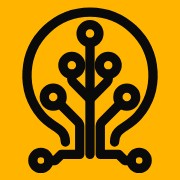
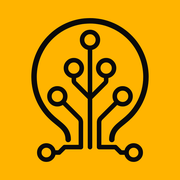
Add files via upload

diff --git a/index.html b/index.html
@@ -16,15 +16,15 @@
   <meta property="og:image" content="https://waiacan.com/images/waiacan-og-image.png">
   <meta name="twitter:card" content="summary_large_image">
 
-  <link rel="icon" href="favicon.ico" sizes="48x48">
-  <link rel="icon" href="favicon.svg" type="image/svg+xml">
-  <link rel="apple-touch-icon" href="apple-touch-icon.png">
+  <link rel="icon" href="favicon.ico?v=2" sizes="48x48">
+  <link rel="icon" href="favicon.svg?v=2" type="image/svg+xml">
+  <link rel="apple-touch-icon" href="apple-touch-icon.png?v=2">
   <link rel="manifest" href="site.webmanifest">
 
   <link rel="preconnect" href="https://fonts.googleapis.com">
   <link rel="preconnect" href="https://fonts.gstatic.com" crossorigin>
   <link rel="stylesheet" href="https://fonts.googleapis.com/css2?family=Inter:wght@400;500;600&family=Space+Grotesk:wght@500;600;700&display=swap">
-  <link rel="stylesheet" href="css/styles.css?v=2">
+  <link rel="stylesheet" href="css/styles.css?v=4">
 
   <script type="application/ld+json">
   {
@@ -64,7 +64,7 @@
   <header class="site-header">
     <div class="container header-inner">
       <a href="./" class="brand" aria-label="WAIACAN home">
-        <img src="images/logo/waiacan-wordmark-full-color.svg" alt="WAIACAN" width="835" height="133">
+        <img src="images/logo/waiacan-wordmark-header.svg?v=2" alt="WAIACAN" width="900" height="206">
       </a>
       <button class="nav-toggle" aria-expanded="false" aria-controls="site-nav" aria-label="Open menu">
         <span></span><span></span>
@@ -85,7 +85,8 @@
       <div class="container hero-grid">
         <div class="hero-content">
           <p class="eyebrow">Business Innovation Powered by AI</p>
-          <h1>Discover What You Can <span class="text-accent">Achieve.</span></h1>
+          <!-- "Achieve" is the real heading text; main.js turns it into a vertical word rotator. -->
+          <h1>Discover What You Can <br class="br-mobile"><span class="text-accent rotator" data-words="Achieve,Build,Automate,Create,Optimize">Achieve</span><span class="text-accent">.</span></h1>
           <p class="hero-lead">Practical AI, automation, and business innovation solutions.</p>
           <p class="hero-description">We help businesses solve complex challenges, eliminate inefficiencies, and unlock new opportunities through artificial intelligence, data, and technology. From immediate problem-solving to long-term process optimization, we turn business challenges into practical, scalable solutions.</p>
           <div class="hero-actions">
@@ -331,6 +332,6 @@
     </div>
   </footer>
 
-  <script src="js/main.js?v=2" defer></script>
+  <script src="js/main.js?v=3" defer></script>
 </body>
 </html>

diff --git a/js/main.js b/js/main.js
@@ -34,6 +34,58 @@
     onScroll();
   }
 
+  // Hero word rotator: slides the accent word up through data-words, looping back to the first.
+  // The original word stays as screen-reader text so the heading still reads "…Can Achieve."
+  // Skipped entirely for reduced-motion users, who just see the static first word.
+  var rotator = document.querySelector('.rotator[data-words]');
+  var reduceMotion = window.matchMedia && window.matchMedia('(prefers-reduced-motion: reduce)').matches;
+  if (rotator && !reduceMotion) {
+    var words = rotator.getAttribute('data-words').split(',');
+    var track = document.createElement('span');
+    track.className = 'rotator-track';
+    track.setAttribute('aria-hidden', 'true');
+    // Repeat the first word at the end so the last step slides up into it seamlessly.
+    words.concat(words[0]).forEach(function (w) {
+      var s = document.createElement('span');
+      s.textContent = w;
+      track.appendChild(s);
+    });
+    var label = document.createElement('span');
+    label.className = 'sr-only';
+    label.textContent = rotator.textContent;
+    rotator.textContent = '';
+    rotator.appendChild(label);
+    rotator.appendChild(track);
+    rotator.classList.add('is-ready');
+
+    var items = track.children;
+    var index = 0;
+    var fitWidth = function () {
+      rotator.style.width = items[index].offsetWidth + 'px';
+    };
+    fitWidth();
+    window.addEventListener('resize', fitWidth);
+    // Webfont swap changes word widths after first paint.
+    if (document.fonts && document.fonts.ready) document.fonts.ready.then(fitWidth);
+
+    setInterval(function () {
+      if (document.hidden) return;
+      index += 1;
+      track.style.transform = 'translateY(' + (-1.2 * index) + 'em)';
+      fitWidth();
+      if (index === words.length) {
+        // On the duplicate first word: jump back to the real one without animating.
+        setTimeout(function () {
+          track.style.transition = 'none';
+          index = 0;
+          track.style.transform = 'translateY(0)';
+          track.offsetHeight; // flush so the next change animates again
+          track.style.transition = '';
+        }, 650);
+      }
+    }, 2400);
+  }
+
   var year = document.getElementById('year');
   if (year) year.textContent = new Date().getFullYear();
 

diff --git a/css/styles.css b/css/styles.css
@@ -219,7 +219,7 @@ ul, ol {
 }
 
 .brand img {
-  height: 26px;
+  height: 40px; /* letters stay 26px tall; the extra height is the larger icon */
   width: auto;
 }
 
@@ -290,6 +290,44 @@ ul, ol {
   font-weight: 600;
   color: var(--black);
   margin-bottom: 20px;
+}
+
+/*
+  Hero word rotator (built by main.js). The window is one line tall with a little extra
+  room below so descenders (the "p" in Optimize) aren't clipped; the negative margin
+  gives that room back so the line height doesn't change.
+*/
+.rotator.is-ready {
+  display: inline-block;
+  vertical-align: top;
+  height: 1.2em;
+  margin-bottom: -0.1em;
+  overflow: hidden;
+  transition: width 0.45s cubic-bezier(0.65, 0, 0.35, 1);
+}
+.rotator-track {
+  display: block;
+  transition: transform 0.6s cubic-bezier(0.65, 0, 0.35, 1);
+}
+.rotator-track > span {
+  display: block;
+  width: max-content;
+  height: 1.2em;
+}
+
+/* On phones and tablets (≤900px) the rotating word gets its own line, so longer words never re-wrap the heading. */
+.br-mobile { display: none; }
+
+.sr-only {
+  position: absolute;
+  width: 1px;
+  height: 1px;
+  margin: -1px;
+  padding: 0;
+  overflow: hidden;
+  clip: rect(0 0 0 0);
+  white-space: nowrap;
+  border: 0;
 }
 
 .hero-description {
@@ -567,6 +605,8 @@ ul, ol {
 
   .nav-toggle { display: block; }
 
+  .br-mobile { display: inline; }
+
   .site-nav {
     position: absolute;
     top: var(--header-height);
@@ -607,7 +647,7 @@ ul, ol {
     --header-height: 68px;
   }
 
-  .brand img { height: 22px; }
+  .brand img { height: 34px; }
 
   .hero { padding: 56px 0 72px; }
   .hero-actions .btn { width: 100%; }

diff --git a/thanks.html b/thanks.html
@@ -5,8 +5,8 @@
   <meta name="viewport" content="width=device-width, initial-scale=1">
   <title>Thank You | WAIACAN</title>
   <meta name="robots" content="noindex, follow">
-  <link rel="icon" href="favicon.ico" sizes="48x48">
-  <link rel="icon" href="favicon.svg" type="image/svg+xml">
+  <link rel="icon" href="favicon.ico?v=2" sizes="48x48">
+  <link rel="icon" href="favicon.svg?v=2" type="image/svg+xml">
   <link rel="preconnect" href="https://fonts.googleapis.com">
   <link rel="preconnect" href="https://fonts.gstatic.com" crossorigin>
   <link rel="stylesheet" href="https://fonts.googleapis.com/css2?family=Inter:wght@400;500&family=Space+Grotesk:wght@600;700&display=swap">

diff --git a/404.html b/404.html
@@ -5,7 +5,7 @@
   <meta name="viewport" content="width=device-width, initial-scale=1">
   <title>Page not found | WAIACAN</title>
   <meta name="robots" content="noindex">
-  <link rel="icon" href="/favicon.svg" type="image/svg+xml">
+  <link rel="icon" href="/favicon.svg?v=2" type="image/svg+xml">
   <link rel="preconnect" href="https://fonts.googleapis.com">
   <link rel="preconnect" href="https://fonts.gstatic.com" crossorigin>
   <link rel="stylesheet" href="https://fonts.googleapis.com/css2?family=Inter:wght@400;500&family=Space+Grotesk:wght@600;700&display=swap">

diff --git a/README.md b/README.md
@@ -12,9 +12,9 @@ Plain HTML, CSS and vanilla JS. No build step: what's in this folder is what get
 | `js/main.js` | Mobile menu, header border on scroll, footer year, contact form submit |
 | `thanks.html` | Confirmation page after a no-JS form submission (`noindex`) |
 | `404.html` | Not-found page (styles inlined, since it's served at any missing path) |
-| `images/logo/` | Web copies of the logos (horizontal, stacked, icon × full color / white / black; wordmark used in the header) |
+| `images/logo/` | Web copies of the logos (horizontal, stacked, icon × full color / white / black; `waiacan-wordmark-header.svg` is the wordmark with the icon enlarged, used in the nav) |
 | `images/waiacan-og-image.png` | 1200×630 social share image |
-| `favicon.ico`, `favicon.svg`, `apple-touch-icon.png`, `icon-192.png`, `icon-512.png` | Favicons (yellow background) |
+| `favicon.ico`, `favicon.svg`, `apple-touch-icon.png`, `icon-192.png`, `icon-512.png` | Favicons: the original icon (same paths and stroke weights as `Waiacan_Icon_Black.svg`) on a yellow rounded square. `apple-touch-icon.png` is square because iOS rounds it itself |
 | `site.webmanifest`, `robots.txt`, `sitemap.xml` | Browser/SEO metadata |
 | `.nojekyll` | Tells GitHub Pages to serve files as-is |
 
